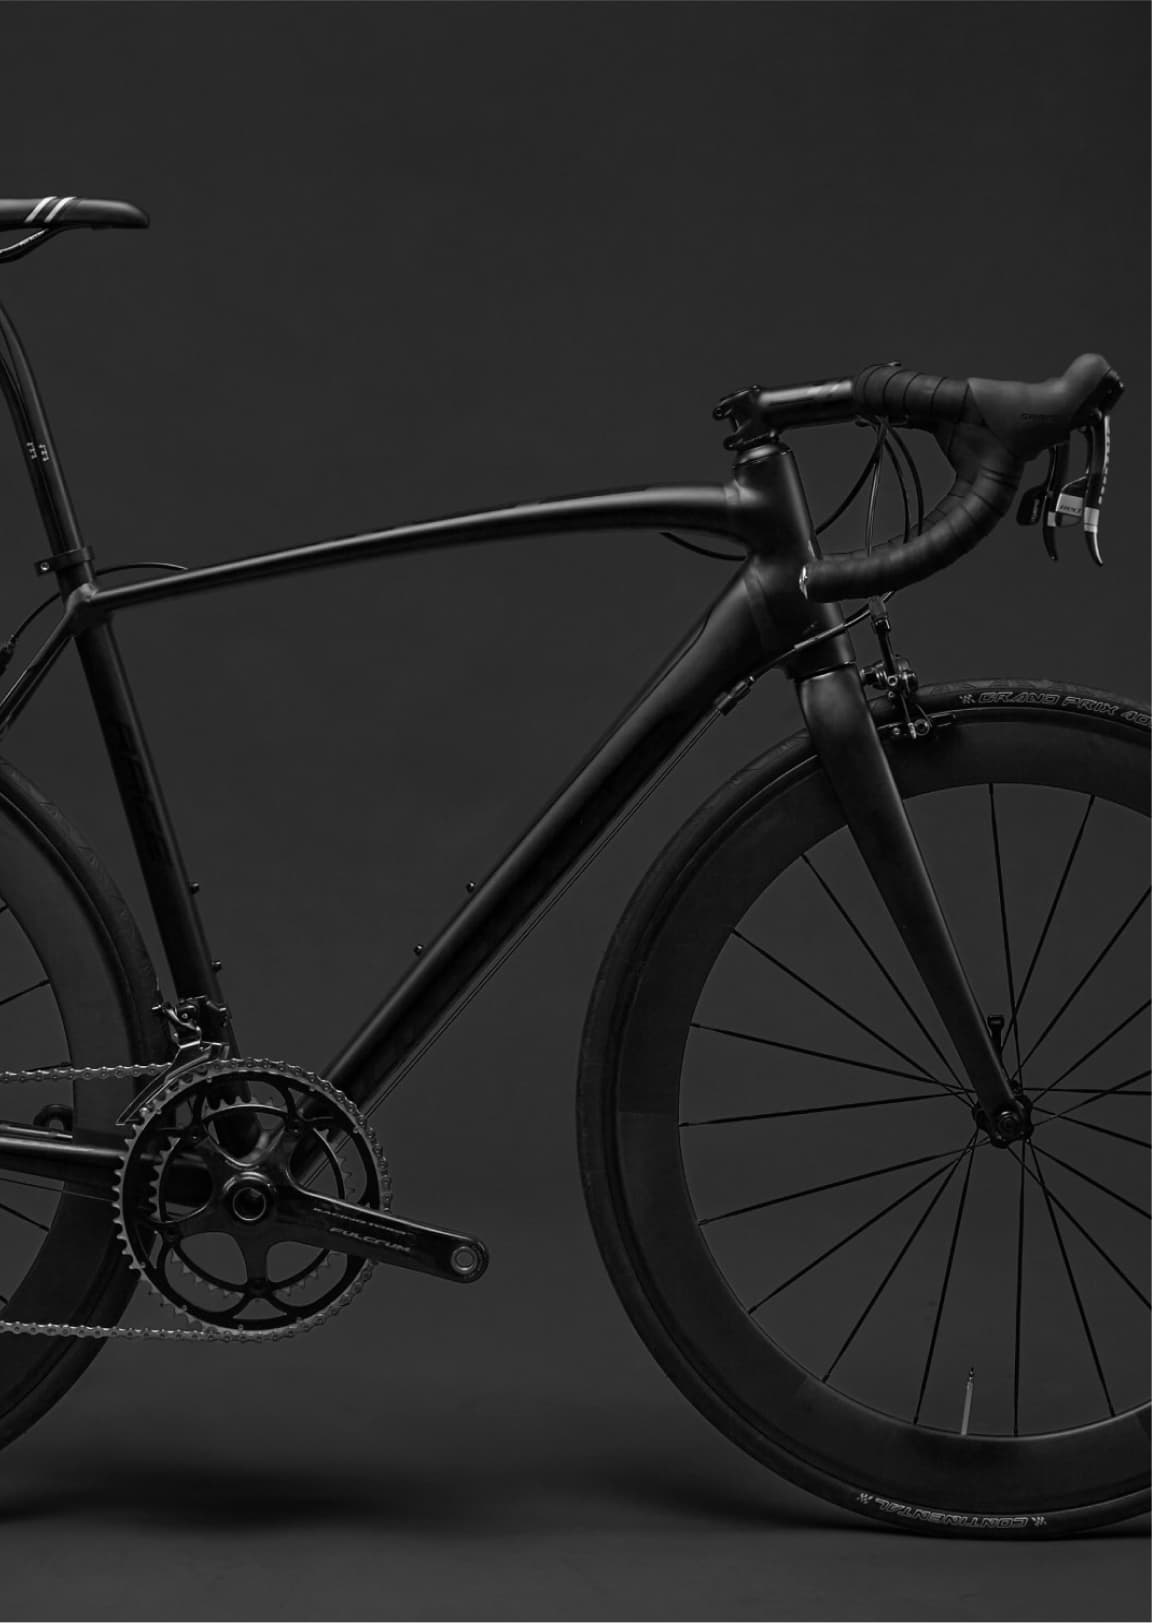
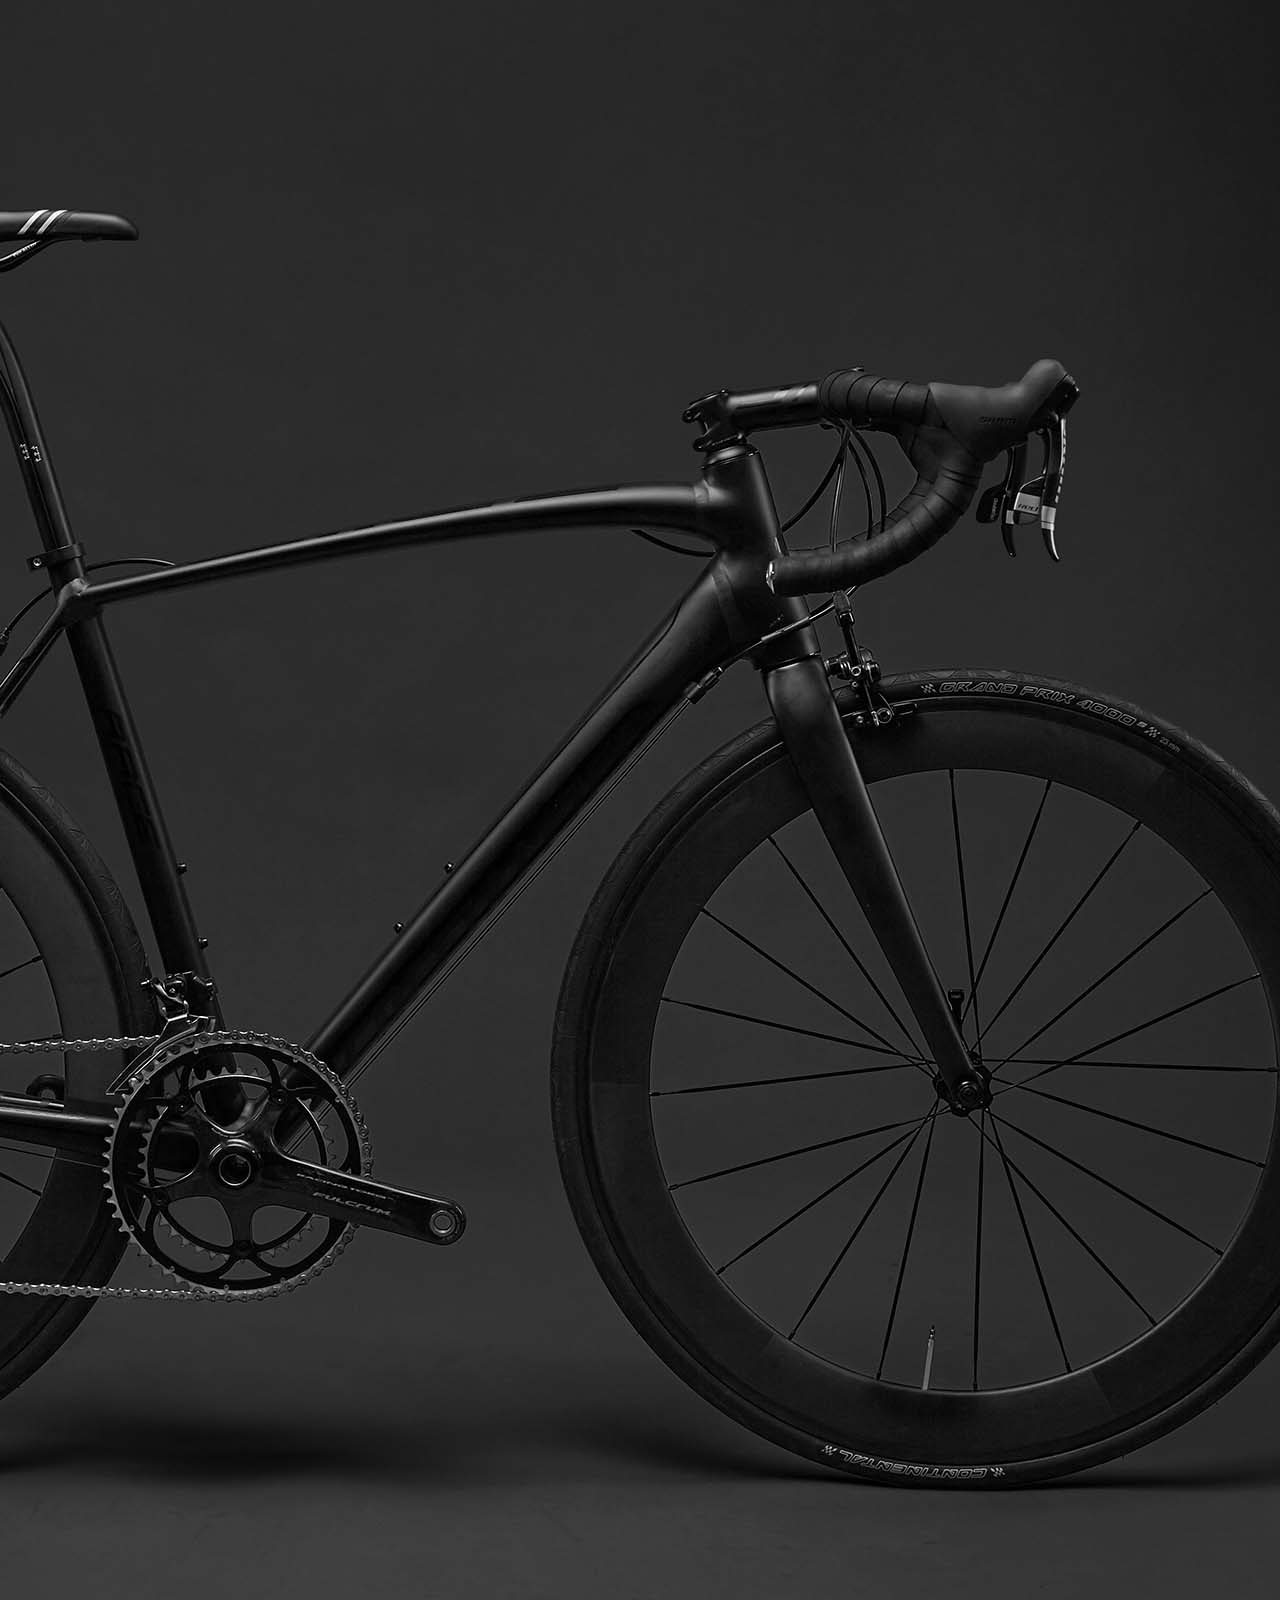
introducao

diff --git a/css/style.css b/css/style.css
@@ -3,14 +3,25 @@ body {
   font-family: Arial, Helvetica, sans-serif;
 }
 
-ul {
+h1, 
+ul,
+p {
   margin: 0px;
+}
+
+ul {
   padding: 0px;
   list-style: none;
 }
 
 a {
   text-decoration: none;
+  color: inherit;
+}
+
+img {
+  max-width: 100%;
+  display: block;
 }
 
 .header-bg {
@@ -84,4 +95,60 @@ a {
     padding: 8px 12px;
     font-size: 14px;
   }
+}
+
+.introducao-bg {
+  background: #000000;
+  color: #ffffff;
+}
+
+.introducao {
+  display: grid;
+  grid-template-columns: 1fr 1fr;
+  gap: 0px 40px;
+  box-sizing: border-box;
+  max-width: 1200px;
+  padding-left: 20px;
+  padding-right: 20px;
+  margin-left: auto;
+  margin-right: auto;
+}
+
+.introducao-conteudo {
+  align-self: end;
+  padding-bottom: 120px;
+}
+
+.introducao h1 {
+  margin-bottom: 32px;
+  font-size: 64px;
+  line-height: 1.125;
+}
+
+.introducao h1 span {
+  color: #FFBB00;
+}
+
+.introducao p {
+  margin-bottom: 20px;
+  font-size: 24px;
+  line-height: 1.5;
+  color: #B2B2B2;
+}
+
+.introducao a {
+  display: inline;
+  padding: 16px 32px;
+  background: linear-gradient(#FFBF00, #F2A50C);
+  border-radius: 4px;
+  box-shadow: 0px 1px 2px rgba(0, 0, 0, 0.1);
+  text-transform: uppercase;
+  color: #332200;
+  font-size: 18px;
+  font-weight: 600;
+  line-height: 1.33;
+}
+
+.introducao a:hover {
+  background: linear-gradient(#FFBF6D, #E59317);
 }

diff --git a/index.html b/index.html
@@ -24,5 +24,16 @@
         </nav>
       </div>
     </header>
+
+    <main class="introducao-bg">
+      <div class="introducao">
+        <div class="introducao-conteudo">
+          <h1>Bicicletas feitas sob medida<span>.</span></h1>
+          <p>Bicicletas elétricas de alta precisão e qualidade,  feitas sob medida para o cliente. Explore o mundo na sua velocidade com a Bikcraft.</p>
+          <a href="./bicicletas.html">Escolha a sua</a>
+        </div>
+        <img src="./img/fotos/introducao.jpg" alt="Bicicleta elétrica preta.">
+      </div>
+    </main>
   </body>
 </html>
